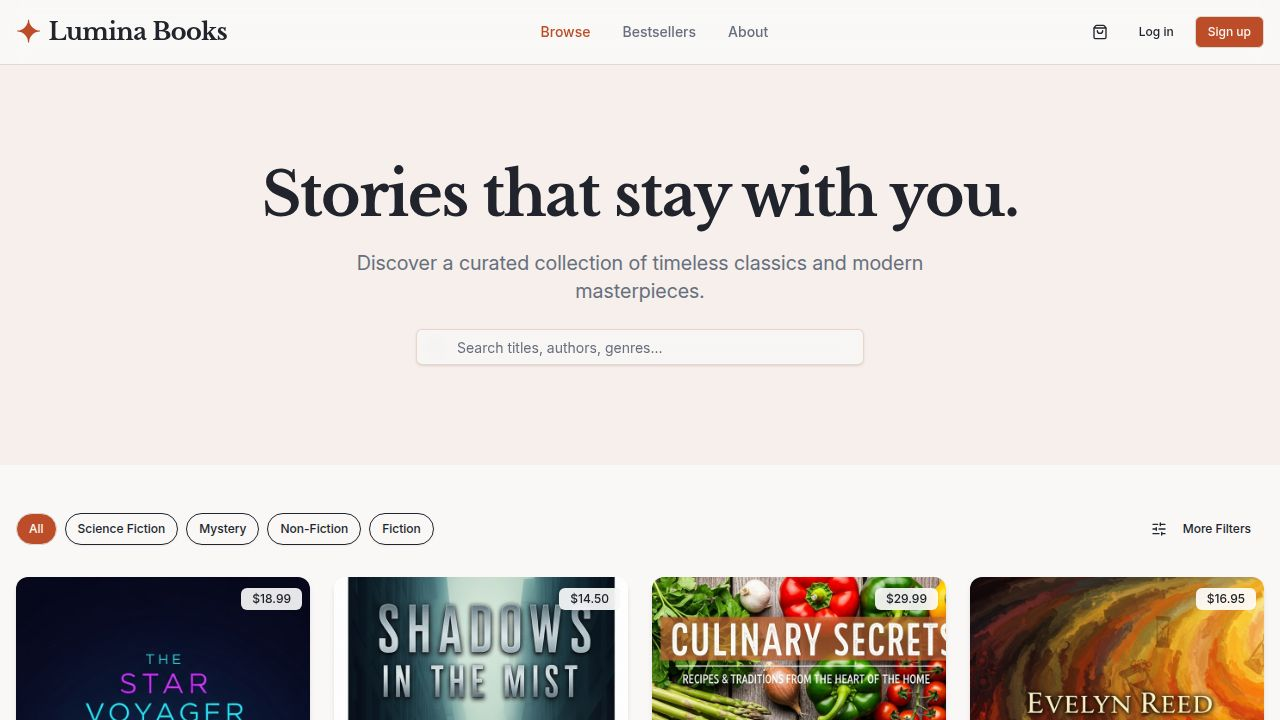
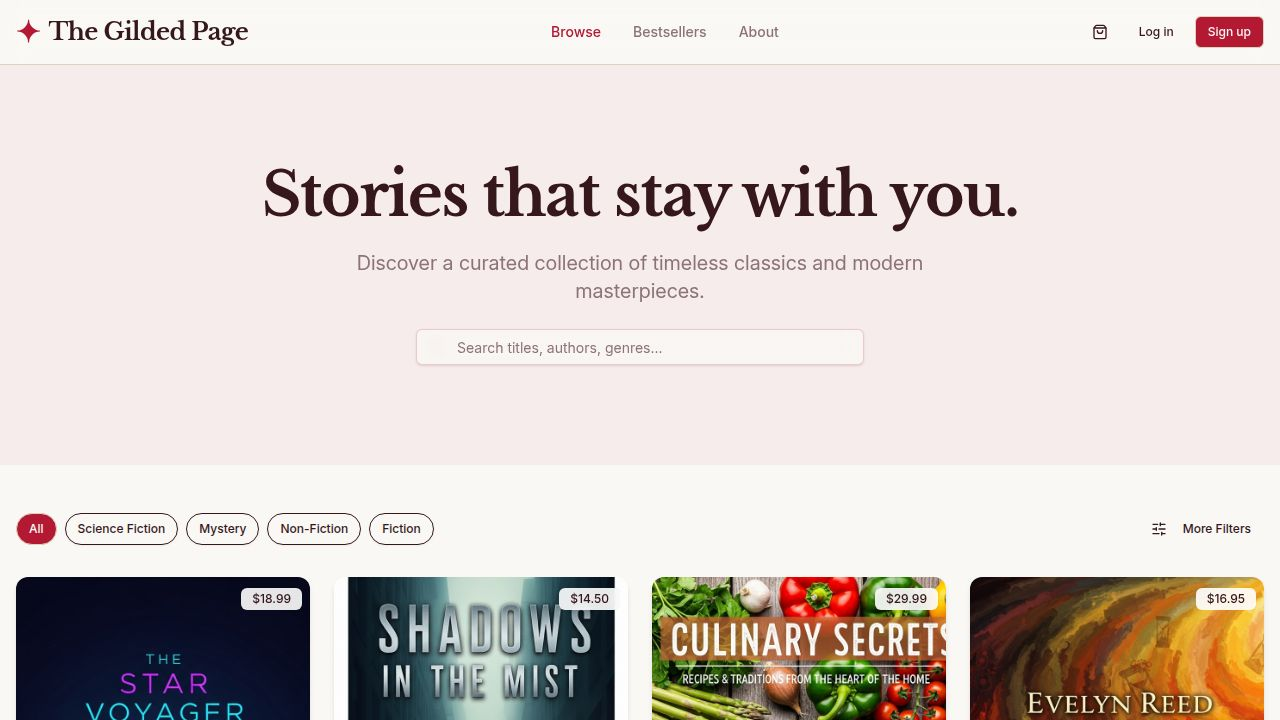
Update website theme to a rich red and antique gold color scheme
Modify CSS variables in index.css to implement a new color palette featuring crimson red and antique gold accents, updating both light and dark modes.

Replit-Commit-Author: Agent
Replit-Commit-Session-Id: bf534630-d210-475f-a753-5379db27c735
Replit-Commit-Checkpoint-Type: full_checkpoint
Replit-Commit-Event-Id: 448e439e-fb9e-4853-a445-0a5161c02a13
Replit-Commit-Screenshot-Url: https://storage.googleapis.com/screenshot-production-us-central1/c54e259a-e92c-47cc-bfd8-9440c86de51b/bf534630-d210-475f-a753-5379db27c735/0rexroQ
Replit-Helium-Checkpoint-Created: true

diff --git a/client/src/index.css b/client/src/index.css
@@ -36,76 +36,76 @@
 }
 
 :root {
-  /* Brown and Gold Theme */
+  /* Red and Gold Theme - Royal & Classic */
   
-  /* Warm Parchment Background */
-  --background: 35 30% 96%; 
-  /* Deep Espresso Foreground */
-  --foreground: 25 40% 15%;
+  /* Warm Cream Background */
+  --background: 40 30% 97%; 
+  /* Deep Burgundy Foreground */
+  --foreground: 350 40% 15%;
 
-  /* Cards - Slightly lighter than background */
-  --card: 35 30% 98%;
-  --card-foreground: 25 40% 15%;
+  /* Cards - Clean White/Cream */
+  --card: 0 0% 100%;
+  --card-foreground: 350 40% 15%;
 
   /* Popovers */
-  --popover: 35 30% 98%;
-  --popover-foreground: 25 40% 15%;
+  --popover: 0 0% 100%;
+  --popover-foreground: 350 40% 15%;
 
-  /* Primary - Rich Antique Gold */
-  --primary: 45 80% 45%;
-  --primary-foreground: 25 40% 15%; /* Dark text on gold looks better */
+  /* Primary - Rich Crimson Red */
+  --primary: 350 75% 40%;
+  --primary-foreground: 40 30% 97%;
 
-  /* Secondary - Soft Leather Brown */
-  --secondary: 30 20% 85%;
-  --secondary-foreground: 25 40% 15%;
+  /* Secondary - Antique Gold (muted for UI elements) */
+  --secondary: 45 60% 90%;
+  --secondary-foreground: 350 60% 30%;
 
-  /* Muted - Faded Ink/Paper */
-  --muted: 35 20% 90%;
-  --muted-foreground: 25 10% 50%;
+  /* Muted - Warm Grey/Red tint */
+  --muted: 350 10% 92%;
+  --muted-foreground: 350 10% 50%;
 
-  /* Accent - Golden Highlight */
-  --accent: 45 60% 90%;
-  --accent-foreground: 25 40% 15%;
+  /* Accent - Gold Highlight for hovers */
+  --accent: 45 70% 85%;
+  --accent-foreground: 350 75% 40%;
 
   /* Destructive */
-  --destructive: 0 70% 40%; /* Deep Red */
-  --destructive-foreground: 35 30% 96%;
+  --destructive: 0 85% 60%;
+  --destructive-foreground: 0 0% 98%;
 
-  /* Borders & Inputs */
-  --border: 30 20% 80%;
-  --input: 30 20% 80%;
-  --ring: 45 80% 45%;
+  /* Borders & Inputs - Gold tinged */
+  --border: 45 30% 80%;
+  --input: 45 30% 80%;
+  --ring: 350 75% 40%;
 }
 
 .dark {
-  /* Dark Mode - Dark Chocolate & Gold */
-  --background: 25 30% 10%;
-  --foreground: 35 30% 90%;
+  /* Dark Mode - Velvet Red & Gold */
+  --background: 350 40% 10%;
+  --foreground: 40 30% 95%;
 
-  --card: 25 25% 14%;
-  --card-foreground: 35 30% 90%;
+  --card: 350 35% 14%;
+  --card-foreground: 40 30% 95%;
 
-  --popover: 25 25% 14%;
-  --popover-foreground: 35 30% 90%;
+  --popover: 350 35% 14%;
+  --popover-foreground: 40 30% 95%;
 
-  --primary: 45 70% 50%;
-  --primary-foreground: 25 40% 10%;
+  --primary: 350 70% 50%; /* Brighter Red for dark mode */
+  --primary-foreground: 40 30% 95%;
 
-  --secondary: 25 20% 20%;
-  --secondary-foreground: 35 30% 90%;
+  --secondary: 350 25% 20%;
+  --secondary-foreground: 40 30% 95%;
 
-  --muted: 25 20% 20%;
-  --muted-foreground: 35 10% 60%;
+  --muted: 350 25% 20%;
+  --muted-foreground: 350 10% 65%;
 
-  --accent: 25 20% 20%;
-  --accent-foreground: 35 30% 90%;
+  --accent: 350 25% 20%;
+  --accent-foreground: 40 30% 95%;
 
   --destructive: 0 62% 30%;
-  --destructive-foreground: 35 30% 90%;
+  --destructive-foreground: 40 30% 95%;
 
-  --border: 25 20% 20%;
-  --input: 25 20% 20%;
-  --ring: 45 70% 50%;
+  --border: 350 25% 25%;
+  --input: 350 25% 25%;
+  --ring: 350 70% 50%;
 }
 
 @layer base {
@@ -113,7 +113,7 @@
     @apply border-border;
   }
   body {
-    @apply font-sans antialiased bg-background text-foreground selection:bg-primary/30 selection:text-foreground;
+    @apply font-sans antialiased bg-background text-foreground selection:bg-primary/20 selection:text-primary;
   }
   h1, h2, h3, h4, h5, h6 {
     @apply font-serif;
